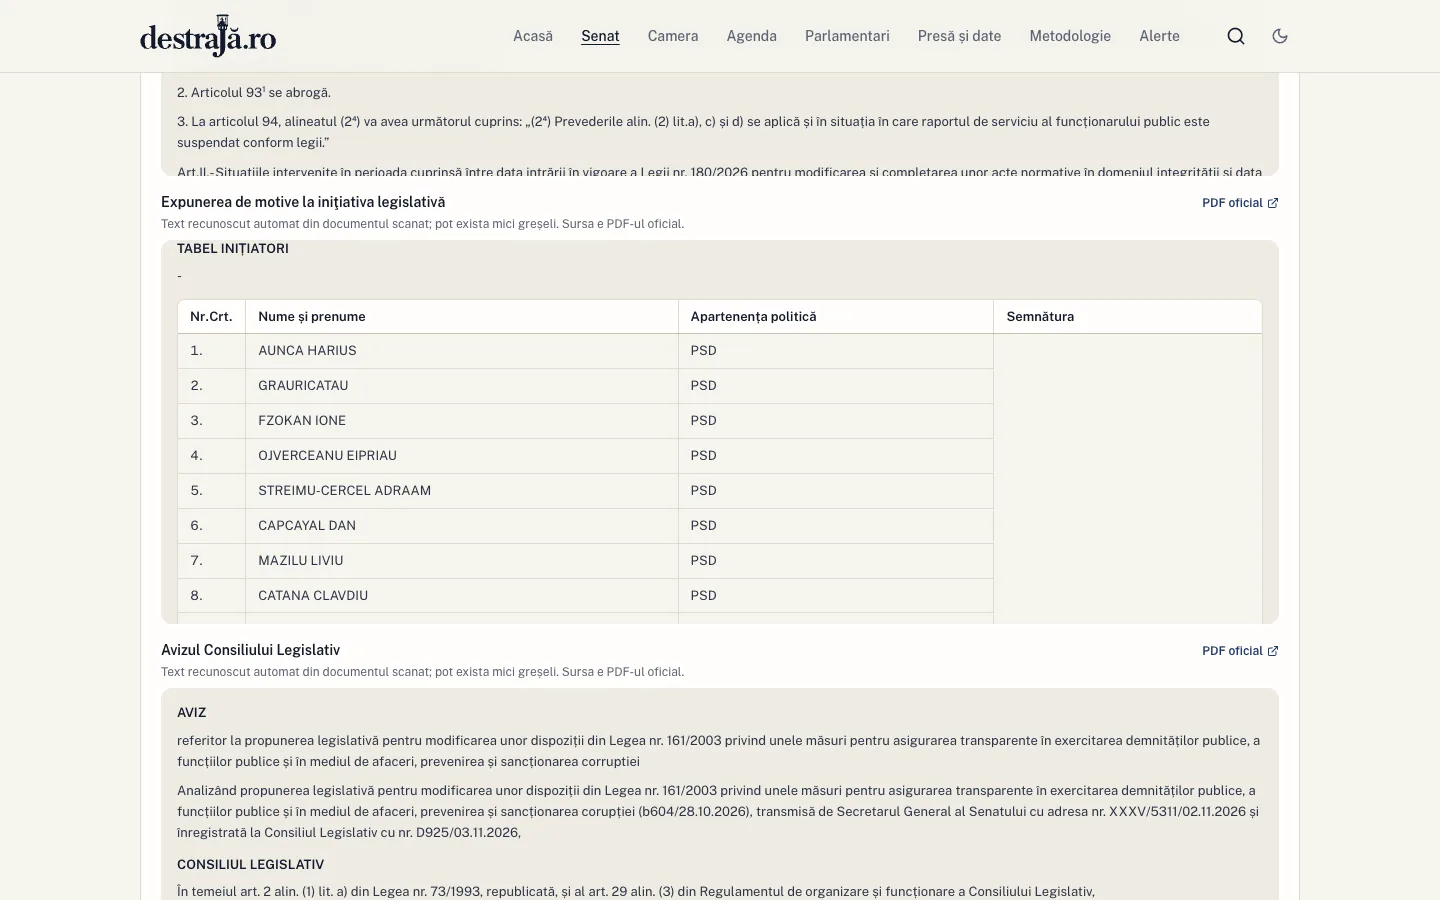
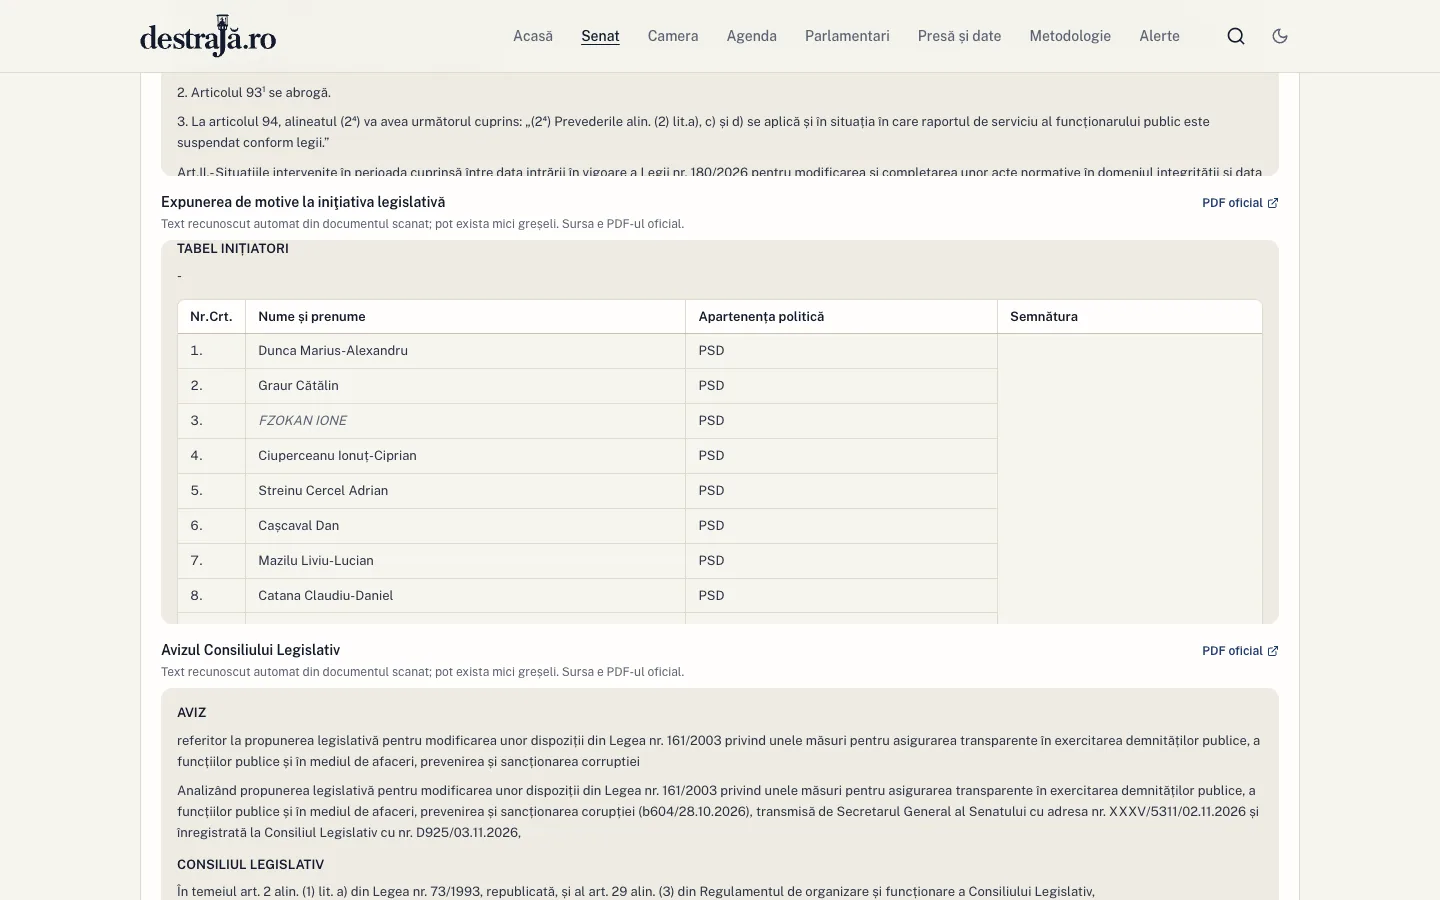
Numele din tabelele de semnături ale proiectelor Senatului sunt scrise după lista oficială a inițiatorilor de pe senat.ro: recunoașterea automată a PDF-urilor scanate le strica („AUNCA HARIUS”, „Bogdon Co'u co-” la B604/2026 sunt Dunca Marius-Alexandru și Ciucă Liviu-Bogdan). Corectăm doar potriviri

diff --git a/src/lib/tidy-tables.ts b/src/lib/tidy-tables.ts
@@ -2,7 +2,9 @@
 // pagină, „tabele” cu o singură coloană care sunt de fapt paragrafe și, în Markdown, tabele fără rândul de separare (pe
 // care GFM nu le recunoaște și le lasă ca text cu bare verticale). Aici le curățăm înainte de randare:
 // - fixPipeTables: repară Markdown-ul (separatorul lipsă; o celulă pe rând devine paragraf);
-// - rehypeTidyTables: curăță arborele HTML (rânduri și coloane goale, tabele de o coloană, antet, coloane înguste).
+// - rehypeTidyTables: curăță arborele HTML (rânduri și coloane goale, tabele de o coloană, antet, coloane înguste) și,
+//   când primește lista oficială a inițiatorilor, corectează numele din tabelele de semnături (OCR-ul le strică des:
+//   „AUNCA HARIUS” e Dunca Marius-Alexandru).
 
 type Node = { type: string; tagName?: string; value?: string; properties?: Record<string, unknown>; children?: Node[] };
 
@@ -120,7 +122,104 @@ function tidy(table: Node): Node[] | null | undefined {
   return undefined;
 }
 
-function walk(node: Node) {
+
+// --- Numele din tabelele de semnături, după lista oficială a inițiatorilor (senat.ro) ---
+
+export type KnownName = { name: string; party?: string | null };
+
+const fold = (s: string) => s.normalize('NFD').replace(/[\u0300-\u036f]/g, '').toLowerCase().replace(/-/g, ' ').replace(/[^a-z\s]/g, ' ').replace(/\s+/g, ' ').trim();
+function lev(a: string, b: string) {
+  const d = Array.from({ length: b.length + 1 }, (_, i) => i);
+  for (let i = 1; i <= a.length; i++) {
+    let prev = d[0];
+    d[0] = i;
+    for (let j = 1; j <= b.length; j++) {
+      const t = d[j];
+      d[j] = Math.min(d[j] + 1, d[j - 1] + 1, prev + (a[i - 1] === b[j - 1] ? 0 : 1));
+      prev = t;
+    }
+  }
+  return d[b.length];
+}
+const ratio = (a: string, b: string) => 1 - lev(a, b) / Math.max(a.length, b.length, 1);
+const sortWords = (s: string) => s.split(' ').sort().join(' ');
+/** Formele în care poate apărea un nume în tabel: întreg, numele de familie cu fiecare prenume, în ambele ordini. */
+function forms(name: string) {
+  const w = fold(name.replace(/\([^)]*\)/g, ' ')).split(' ').filter(Boolean);
+  const out = new Set([w.join(' '), [...w].reverse().join(' ')]);
+  for (let i = 1; i < w.length; i++) out.add(`${w[0]} ${w[i]}`).add(`${w[i]} ${w[0]}`);
+  return [...out];
+}
+/** Cât de aproape e celula de un nume: ca atare, cu cuvintele sortate și fără spații (OCR-ul lipește cuvintele). */
+const closeness = (cell: string, vs: string[]) =>
+  Math.max(...vs.map((v) => Math.max(ratio(cell, v), ratio(sortWords(cell), sortWords(v)), ratio(cell.replace(/ /g, ''), v.replace(/ /g, '')))));
+const nameLike = (s: string) => s.length >= 5 && s.length <= 60 && /\p{L}{2}/u.test(s) && !/\d{2}/.test(s);
+const PARTY = /^(PSD|PNL|USR|AUR|UDMR|SOS|POT|PMP|PRO|minorit|neafilia|independent)/i;
+
+/** Scorul fiecărei celule față de fiecare nume cunoscut, apoi potrivire lacomă: fiecare inițiator cel mult o dată. */
+function correctNames(table: Node, known: KnownName[]): { fixed: number; unsure: number } | null {
+  const rows = rowsOf(table).map(({ row }) => cellsIn(row)).filter((cells) => cells.every((c) => c.tagName !== 'th'));
+  const width = Math.max(0, ...rows.map((r) => r.length));
+  const variants = known.map((k) => forms(k.name));
+  let fixed = 0, unsure = 0, any = false;
+  for (let col = 0; col < width; col++) {
+    const cells = rows.map((r) => ({ cell: r[col], row: r })).filter((x) => x.cell && nameLike(text(x.cell).trim()));
+    if (cells.length < 3) continue;
+    const scored = cells.map(({ cell, row }) => {
+      const c = fold(text(cell));
+      const party = row.map((x) => text(x).trim()).find((s) => s !== text(cell).trim() && PARTY.test(s));
+      return { cell, party, scores: variants.map((vs) => closeness(c, vs)) };
+    });
+    // O coloană de nume: cel puțin jumătate din celule se potrivesc sigur cu un inițiator.
+    if (scored.filter((s) => Math.max(...s.scores) >= 0.72).length < cells.length / 2) continue;
+    any = true;
+    const pairs = scored.flatMap((s, i) => s.scores.map((score, k) => ({ i, k, score }))).sort((a, b) => b.score - a.score);
+    const usedCell = new Set<number>(), usedName = new Set<number>();
+    for (const { i, k, score } of pairs) {
+      if (usedCell.has(i) || usedName.has(k) || score < 0.6) continue;
+      const s = scored[i];
+      const second = Math.max(0, ...s.scores.filter((_, j) => j !== k && !usedName.has(j)));
+      const partyOk = !s.party || !known[k].party || fold(s.party).startsWith(fold(known[k].party!).slice(0, 3));
+      // Sigur: aproape identic, sau destul de aproape și clar mai aproape decât următorul nume; partidul din rând contează.
+      if (!(score >= 0.72 || score - second >= 0.12) || (!partyOk && score < 0.85)) continue;
+      usedCell.add(i);
+      usedName.add(k);
+      // Numărăm doar numele chiar schimbate (nu „Mazilu Liviu” scris întreg ca „Mazilu Liviu-Lucian”).
+      if (score < 0.97 && !variants[k].includes(fold(text(s.cell)))) fixed++;
+      s.cell.children = [{ type: 'text', value: known[k].name }];
+    }
+    scored.forEach((s, i) => {
+      if (!usedCell.has(i)) {
+        addClass(s.cell, 'unsure');
+        unsure++;
+      }
+    });
+  }
+  return any ? { fixed, unsure } : null;
+}
+
+// „22 de nume”, nu „22 nume”: de la 20 în sus, numeralul cere „de” (cu excepția celor terminate în 01–19).
+const deNume = (n: number) => (n % 100 >= 1 && n % 100 <= 19 ? `${n} nume` : `${n} de nume`);
+const note = (r: { fixed: number; unsure: number }): Node => ({
+  type: 'element',
+  tagName: 'p',
+  properties: { className: ['table-note'] },
+  children: [
+    {
+      type: 'text',
+      value: [
+        r.fixed ? 'Numele din tabel sunt scrise după lista oficială a inițiatorilor de pe senat.ro; textul recunoscut din PDF le stricase.' : null,
+        r.unsure === 1
+          ? 'Numele în cursiv nu se potrivește sigur cu niciun inițiator de pe senat.ro și a rămas cum e în PDF.'
+          : r.unsure > 1
+            ? `Cele ${deNume(r.unsure)} în cursiv nu se potrivesc sigur cu niciun inițiator de pe senat.ro și au rămas cum sunt în PDF.`
+            : null,
+      ].filter(Boolean).join(' '),
+    },
+  ],
+});
+
+function walk(node: Node, known: KnownName[]) {
   if (!node.children) return;
   const next: Node[] = [];
   for (const child of node.children) {
@@ -131,13 +230,17 @@ function walk(node: Node) {
         next.push(...r);
         continue;
       }
-    } else walk(child);
+      const names = known.length ? correctNames(child, known) : null;
+      next.push(child);
+      if (names && (names.fixed || names.unsure)) next.push(note(names));
+      continue;
+    } else walk(child, known);
     next.push(child);
   }
   node.children = next;
 }
 
 /** Pluginul rehype: rulează după sanitize, ca clasele adăugate aici să rămână. */
-export default function rehypeTidyTables() {
-  return (tree: Node) => walk(tree);
+export default function rehypeTidyTables(options: { names?: KnownName[] } = {}) {
+  return (tree: Node) => walk(tree, options.names ?? []);
 }

diff --git a/src/lib/changelog.ts b/src/lib/changelog.ts
@@ -33,9 +33,9 @@ export const CHANGELOG: ChangeDay[] = [
       {
         kind: 'corectat',
         title: 'Tabelele din documente se citesc ușor',
-        text: 'Tabelele din documentele oficiale (expuneri de motive, anexe, liste de inițiatori) arătau ca o grilă densă, cu rânduri goale, coloane goale și antetul repetat din fiecare pagină a PDF-ului; unele apăreau ca text cu bare verticale. Acum rândurile și coloanele goale dispar, antetul se vede ca antet, coloanele cu numere rămân înguste, iar pe telefon tabelul se derulează lateral în chenarul lui. Un „tabel” cu o singură coloană, care era de fapt text, se arată ca paragrafe.',
+        text: 'Tabelele din documentele oficiale (expuneri de motive, anexe, liste de inițiatori) arătau ca o grilă densă, cu rânduri goale, coloane goale și antetul repetat din fiecare pagină a PDF-ului; unele apăreau ca text cu bare verticale. Acum rândurile și coloanele goale dispar, antetul se vede ca antet, coloanele cu numere rămân înguste, iar pe telefon tabelul se derulează lateral în chenarul lui. Un „tabel” cu o singură coloană, care era de fapt text, se arată ca paragrafe. În tabelele de semnături ale proiectelor Senatului, numele stricate de recunoașterea automată a PDF-ului scanat („AUNCA HARIUS”) sunt scrise după lista oficială a inițiatorilor de pe senat.ro (Dunca Marius-Alexandru); cele care nu se potrivesc sigur rămân în cursiv, cum sunt în PDF.',
         link: { href: '/legi/b604-2026', label: 'Un exemplu: B604/2026' },
-        shot: { id: '2026-11-16-tabele', alt: 'Expunerea de motive a proiectului B604/2026, cu tabelul inițiatorilor: antet pe fond, numerele curente într-o coloană îngustă, fără rândurile goale.' },
+        shot: { id: '2026-11-16-tabele', alt: 'Expunerea de motive a proiectului B604/2026, cu tabelul inițiatorilor: antet pe fond, numerele curente într-o coloană îngustă, fără rândurile goale, cu numele scrise după lista oficială de pe senat.ro.' },
       },
     ],
   },

diff --git a/src/components/bills/DocumentText.tsx b/src/components/bills/DocumentText.tsx
@@ -2,7 +2,7 @@ import Markdown, { type Components } from 'react-markdown';
 import remarkGfm from 'remark-gfm';
 import rehypeRaw from 'rehype-raw';
 import rehypeSanitize, { type Options as SanitizeSchema } from 'rehype-sanitize';
-import rehypeTidyTables, { fixPipeTables } from '@/lib/tidy-tables';
+import rehypeTidyTables, { fixPipeTables, type KnownName } from '@/lib/tidy-tables';
 
 // Textul recunoscut dintr-un PDF scanat, în Markdown (scripts/lib/pdf-text.mjs). Se randează la build, fără JS în
 // pagină. HTML brut ajunge aici doar pentru tabelele cu celule unite pe care GFM nu le poate scrie; filtrul de mai
@@ -45,13 +45,15 @@ const doc = [
   '[&_th]:min-w-32 [&_th]:border-b [&_th]:border-line-strong [&_th]:bg-surface [&_th]:px-3 [&_th]:py-2 [&_th]:text-left [&_th]:align-bottom [&_th]:font-semibold [&_th]:text-ink',
   '[&_.narrow]:min-w-0 [&_.narrow]:w-px [&_.narrow]:whitespace-nowrap',
   '[&_tr:last-child>td]:border-b-0 [&_tr.repeat>th]:border-t [&_tr.repeat>th]:border-line-strong',
+  '[&_.unsure]:italic [&_.unsure]:text-muted [&_.table-note]:-mt-1 [&_.table-note]:text-xs [&_.table-note]:text-muted',
   '[&_td+td]:border-l [&_th+th]:border-l [&_td+td]:border-l-line [&_th+th]:border-l-line',
 ].join(' ');
 
-export default function DocumentText({ markdown }: { markdown: string }) {
+/** `names`: inițiatorii oficiali ai proiectului, ca numele din tabelele de semnături să fie corectate după ei. */
+export default function DocumentText({ markdown, names }: { markdown: string; names?: KnownName[] }) {
   return (
     <div className={doc}>
-      <Markdown remarkPlugins={[remarkGfm]} rehypePlugins={[rehypeRaw, [rehypeSanitize, schema], rehypeTidyTables]} components={components}>
+      <Markdown remarkPlugins={[remarkGfm]} rehypePlugins={[rehypeRaw, [rehypeSanitize, schema], [rehypeTidyTables, { names }]]} components={components}>
         {fixPipeTables(markdown)}
       </Markdown>
     </div>

diff --git a/src/app/legi/[slug]/page.tsx b/src/app/legi/[slug]/page.tsx
@@ -418,7 +418,7 @@ export default async function BillDetailPage({ params }: PageProps) {
                     {doc.ocr && <p className="mt-1 text-xs text-muted">Text recunoscut automat din documentul scanat; pot exista mici greșeli. Sursa e PDF-ul oficial.</p>}
                     {doc.markdown ? (
                       <div className="mt-2 max-h-96 overflow-y-auto break-words rounded-xl bg-sunken p-4 text-[13px] leading-relaxed text-body">
-                        <DocumentText markdown={doc.markdown} />
+                        <DocumentText markdown={doc.markdown} names={bill.initiators} />
                       </div>
                     ) : (
                       <div className="mt-2 max-h-96 overflow-y-auto whitespace-pre-line break-words rounded-xl bg-sunken p-4 text-[13px] leading-relaxed text-body">
